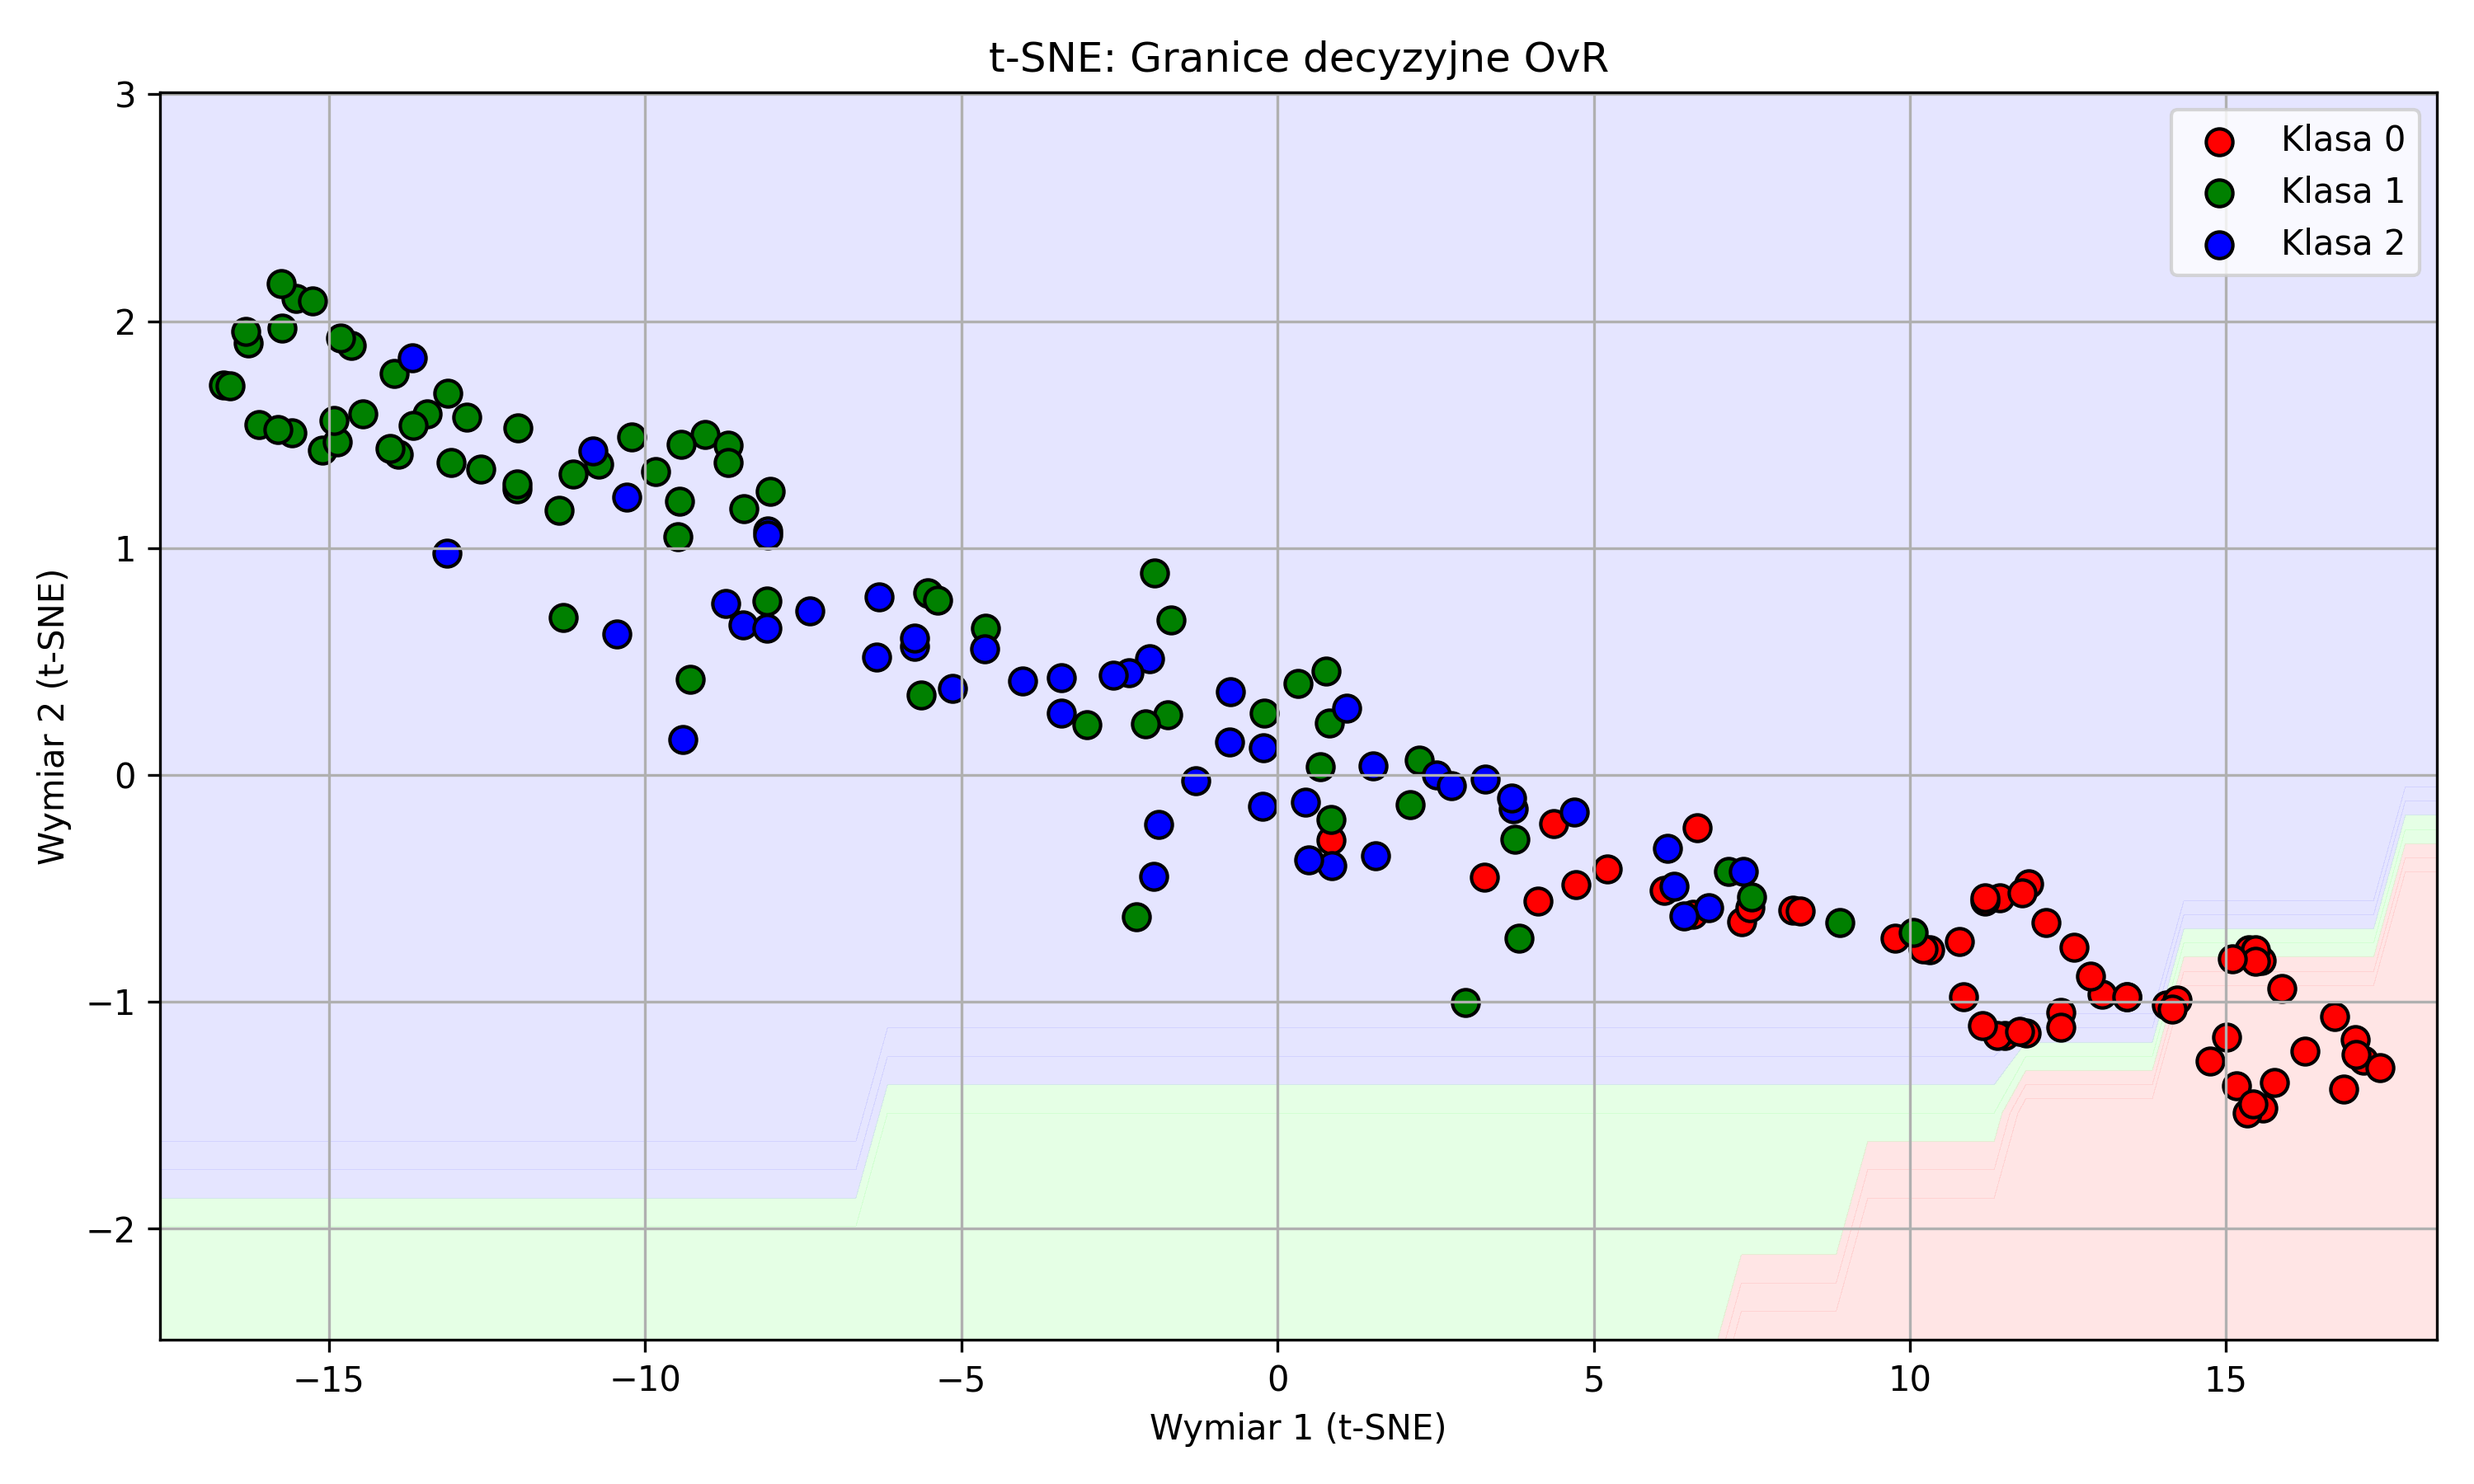
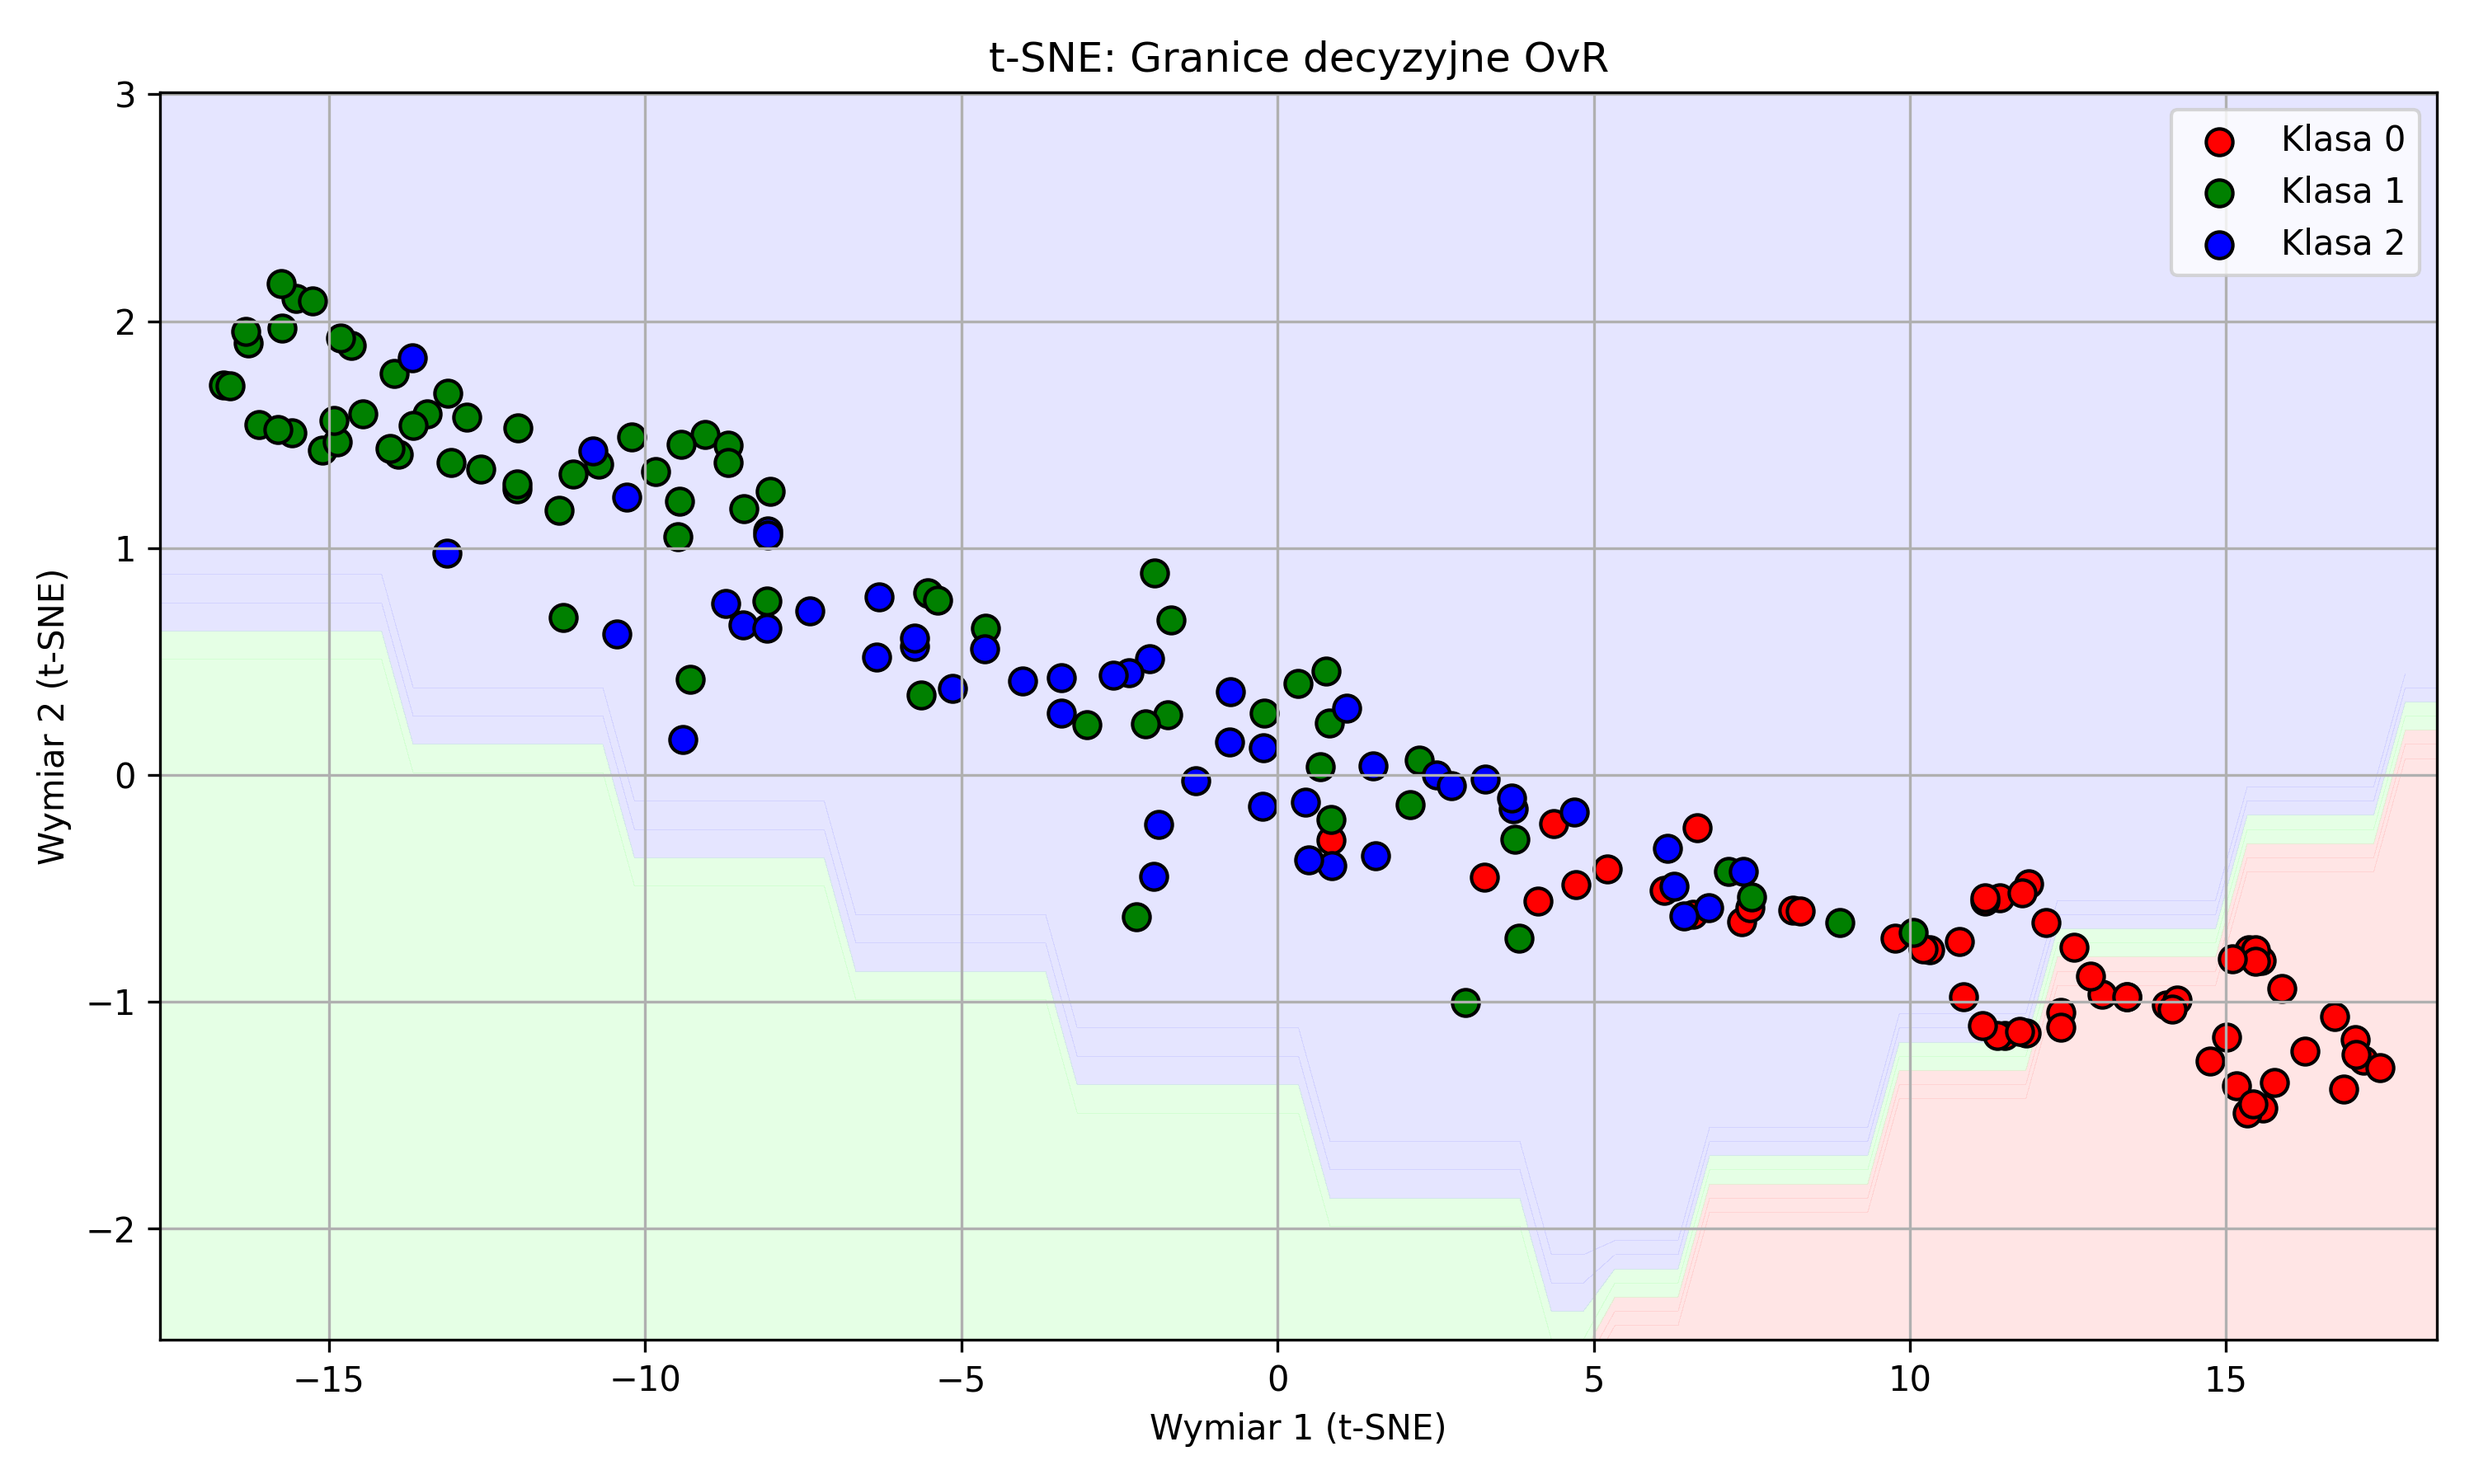
before qml testing

Changed region(s): [[0.062, 0.4044, 0.434, 0.8089], [0.527, 0.4667, 0.992, 0.9022]]

diff --git a/ML_projektv3/main.py b/ML_projektv3/main.py
@@ -23,8 +23,11 @@ def test_with_crossvalidation(isSvm=False,withStandardScaler=True, withVarianceT
         X = standard_scale(X)
 
     scores_f1 = []
+    scores_f1_micro = []
     scores_precision = []
+    scores_precision_micro = []
     scores_recall = []
+    scores_recall_micro = []
     scores_accuracy = []
     for train_idx, val_idx in skf.split(X, y):
         X_train, X_val = X.iloc[train_idx], X.iloc[val_idx]
@@ -37,42 +40,54 @@ def test_with_crossvalidation(isSvm=False,withStandardScaler=True, withVarianceT
         model.fit(X_train, y_train)
         y_pred = model.predict(X_val)
         score_f1 = f1_score(y_val, y_pred)
+        score_f1_micro = f1_score(y_val, y_pred, average='micro')
         scores_f1.append(score_f1)
         accuracy = compute_accuracy(y_val, y_pred)
         precision_score = precision(y_val, y_pred)
+        precision_score_micro = precision(y_val, y_pred, average='micro')
         recall_score = recall(y_val, y_pred)
+        recall_score_micro = recall(y_val, y_pred, average='micro')
         scores_accuracy.append(accuracy)
         scores_precision.append(precision_score)
         scores_recall.append(recall_score)
+        scores_precision_micro.append(precision_score_micro)
+        scores_recall_micro.append(recall_score_micro)
+        scores_f1_micro.append(score_f1_micro)
+
     mean_score_f1 = np.mean(scores_f1)
     mean_accuracy = np.mean(scores_accuracy)
     mean_precision = np.mean(scores_precision)
     mean_recall = np.mean(scores_recall)
+    mean_score_f1_micro = np.mean(scores_f1_micro)
+    mean_precision_micro = np.mean(scores_precision_micro)
+    mean_recall_micro = np.mean(scores_recall_micro)
 
     if isPloting:
         print("Accuracy:", round(mean_accuracy,3))
         print("Precision:", round(mean_precision,3))
+        print("Precision Micro:", round(mean_precision_micro,3))
         print("Recall:", round(mean_recall,3))
+        print("Recall Micro:", round(mean_recall_micro,3))
         print("F1 Score:", round(mean_score_f1,3))
+        print("F1 Score Micro:", round(mean_score_f1_micro,3))
+
 
     return round(mean_accuracy,3), round(mean_precision,3), round(mean_recall,3), round(mean_score_f1,3)
-def test(isSvm=False,withStandardScaler=True, withVarianceThreshold=True, isPloting=False):
+def test(isSvm=False,withStandardScaler=True, withVarianceThreshold=True, isPloting=False, random_state=42):
     data = load_wine()
     X = pd.DataFrame(data.data, columns=data.feature_names)
     y = pd.Series(data.target)
-    # if withVarianceThreshold:
-    #     X, _ = variance_threshold(X, threshold=0.1)
-    # # Przeskalowanie
-    # if withStandardScaler:
-    #     X = standard_scale(X)
+    if withVarianceThreshold:
+        X, _ = variance_threshold(X, threshold=0.1)
+    if withStandardScaler:
+        X = standard_scale(X)
 
 
-    X_train, X_test, y_train, y_test = train_test_split(X, y, test_size=0.3, random_state=42)
+    X_train, X_test, y_train, y_test = train_test_split(X, y, test_size=0.3, random_state=random_state, stratify=y)
 
-    # Model OvR
     model = None
     if isSvm:
-        model = svm.SVC(kernel='linear', C=1.0, random_state=42)
+        model = svm.SVC(kernel='linear', C=1.0, random_state=random_state)
     else:
         model = OvRClassifier(base_class=Perceptron, learning_rate=0.01, n_iter=1000)
     model.fit(X_train, y_train)
@@ -91,7 +106,7 @@ def test(isSvm=False,withStandardScaler=True, withVarianceThreshold=True, isPlot
             filename = "svm_tsne_visualisation.png"
         else:
             filename = "tsne_visualisation.png"
-        plot_points(X, y,filename=filename)
+        plot_points(X, y,filename=filename, isSvm=isSvm,random_state=random_state)
         print("Accuracy:", round(accuracy,3))
         print("Precision:", round(_precision,3))
         print("Recall:", round(_recall,3))
@@ -126,6 +141,7 @@ print("OvR")
 test_with_crossvalidation(False, withStandardScaler, withVarianceThreshold, True)
 print("SVM")
 test_with_crossvalidation(True, withStandardScaler, withVarianceThreshold, True)
-print("----------------------")
-test(False,True, True, True)
-test(True, True, True, True)
+# print("----------------------")
+# test(False,True, True, True,random_state=42)
+# test(True, True, True, True,random_state=42)
+

diff --git a/ML_projektv3/utils.py b/ML_projektv3/utils.py
@@ -1,3 +1,4 @@
+from sklearn import svm
 from sklearn.manifold import TSNE
 from matplotlib.colors import ListedColormap
 import matplotlib.pyplot as plt
@@ -80,45 +81,54 @@ def variance_threshold(X, threshold=0.01):
     return X.loc[:, selected_columns], selected_columns
 
 
-def plot_points(X, y, seed = 512, filename="tsne_visualisation.png"):
-    X_embedded = TSNE(n_components=2, random_state=seed).fit_transform(X)
-    X_embedded_df = pd.DataFrame(X_embedded, columns=["dim1", "dim2"])
+def plot_points(X, y, seed = 512, filename="tsne_visualisation.png",isSvm=False,random_state=42):
+    params_list = [
+        {'perplexity': 50, 'learning_rate': 100, 'random_state': 42},
+    ]
+    for params in params_list:
+        filename=str(params['perplexity'])+str(3)+filename
+        X_embedded = TSNE(n_components=2, **params).fit_transform(X)
+        X_embedded_df = pd.DataFrame(X_embedded, columns=["dim1", "dim2"])
 
-    model_emb = OvRClassifier(base_class=Perceptron, learning_rate=0.01, n_iter=1000)
-    model_emb.fit(X_embedded_df, y)
+        model_emb = None
+        if isSvm:
+            model_emb = svm.SVC(kernel='linear', C=1.0, random_state=random_state)
+        else:
+            model_emb = OvRClassifier(base_class=Perceptron, learning_rate=0.01, n_iter=1000)
+        model_emb.fit(X_embedded_df, y)
 
-    h = 0.5
-    x_min, x_max = X_embedded[:, 0].min() - 1, X_embedded[:, 0].max() + 1
-    y_min, y_max = X_embedded[:, 1].min() - 1, X_embedded[:, 1].max() + 1
-    xx, yy = np.meshgrid(np.arange(x_min, x_max, h),
-                         np.arange(y_min, y_max, h))
-    grid_points = np.c_[xx.ravel(), yy.ravel()]
-    grid_df = pd.DataFrame(grid_points, columns=["dim1", "dim2"])
+        h = 0.5
+        x_min, x_max = X_embedded[:, 0].min() - 1, X_embedded[:, 0].max() + 1
+        y_min, y_max = X_embedded[:, 1].min() - 1, X_embedded[:, 1].max() + 1
+        xx, yy = np.meshgrid(np.arange(x_min, x_max, h),
+                             np.arange(y_min, y_max, h))
+        grid_points = np.c_[xx.ravel(), yy.ravel()]
+        grid_df = pd.DataFrame(grid_points, columns=["dim1", "dim2"])
 
-    grid_pred = model_emb.predict(grid_df)
-    Z = np.array(grid_pred).reshape(xx.shape)
+        grid_pred = model_emb.predict(grid_df)
+        Z = np.array(grid_pred).reshape(xx.shape)
 
 
-    plt.figure(figsize=(10, 6))
-    cmap_light = ListedColormap(["#FFAAAA", "#AAFFAA", "#AAAAFF"])
-    cmap_bold = ["red", "green", "blue"]
-    plt.contourf(xx, yy, Z, alpha=0.3, cmap=cmap_light)
+        plt.figure(figsize=(10, 6))
+        cmap_light = ListedColormap(["#FFAAAA", "#AAFFAA", "#AAAAFF"])
+        cmap_bold = ["red", "green", "blue"]
+        plt.contourf(xx, yy, Z, alpha=0.3, cmap=cmap_light)
 
-    for class_value in np.unique(y):
-        idx = y == class_value
-        plt.scatter(
-            X_embedded_df.loc[idx, "dim1"],
-            X_embedded_df.loc[idx, "dim2"],
-            label=f"Klasa {class_value}",
-            c=cmap_bold[class_value],
-            edgecolor="k",
-            s=60
-        )
-    plt.title(f"t-SNE: Granice decyzyjne OvR")
-    plt.xlabel("Wymiar 1 (t-SNE)")
-    plt.ylabel("Wymiar 2 (t-SNE)")
-    plt.legend()
-    plt.grid(True)
-    plt.tight_layout()
-    plt.savefig(filename, dpi=300)
-    plt.close()
+        for class_value in np.unique(y):
+            idx = y == class_value
+            plt.scatter(
+                X_embedded_df.loc[idx, "dim1"],
+                X_embedded_df.loc[idx, "dim2"],
+                label=f"Klasa {class_value}",
+                c=cmap_bold[class_value],
+                edgecolor="k",
+                s=60
+            )
+        plt.title(f"t-SNE: Granice decyzyjne OvR")
+        plt.xlabel("Wymiar 1 (t-SNE)")
+        plt.ylabel("Wymiar 2 (t-SNE)")
+        plt.legend()
+        plt.grid(True)
+        plt.tight_layout()
+        plt.savefig(filename, dpi=300)
+        plt.close()
